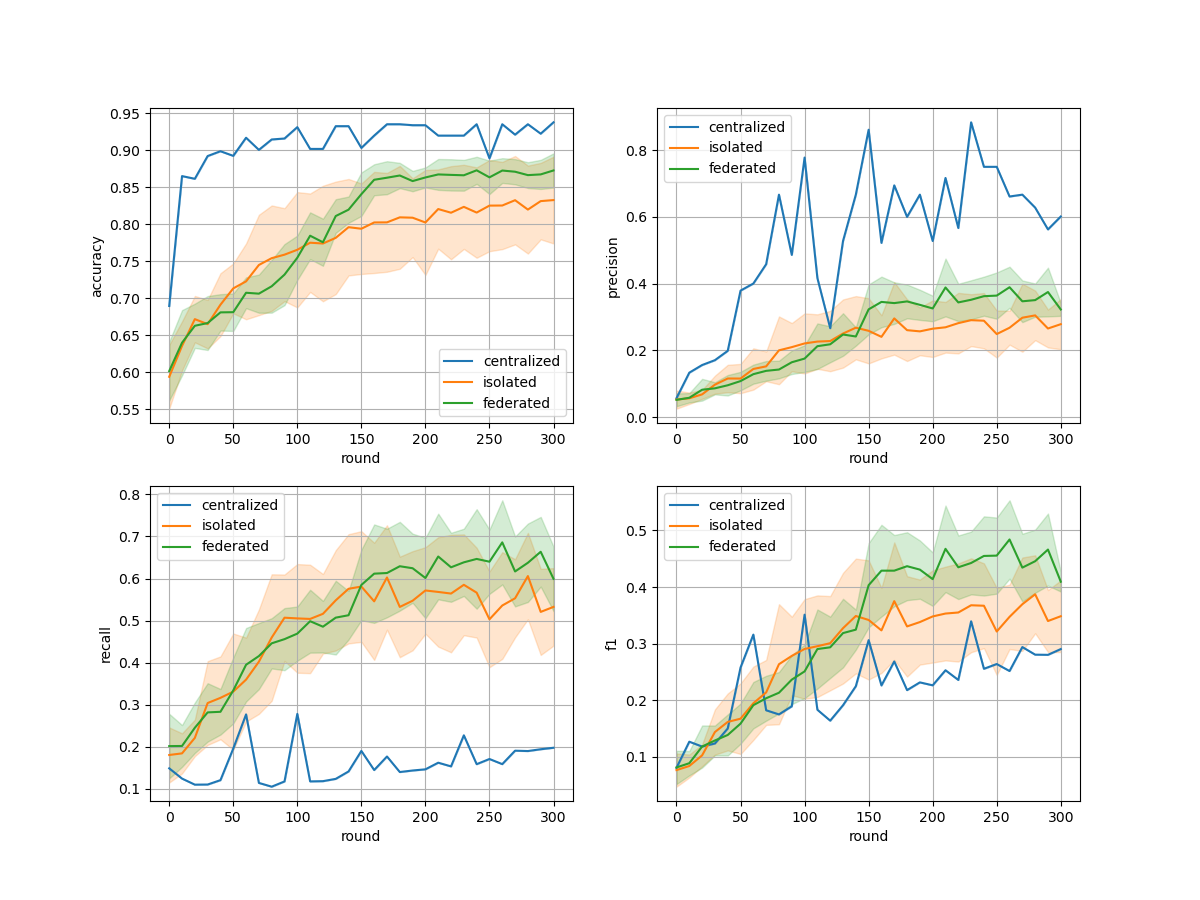
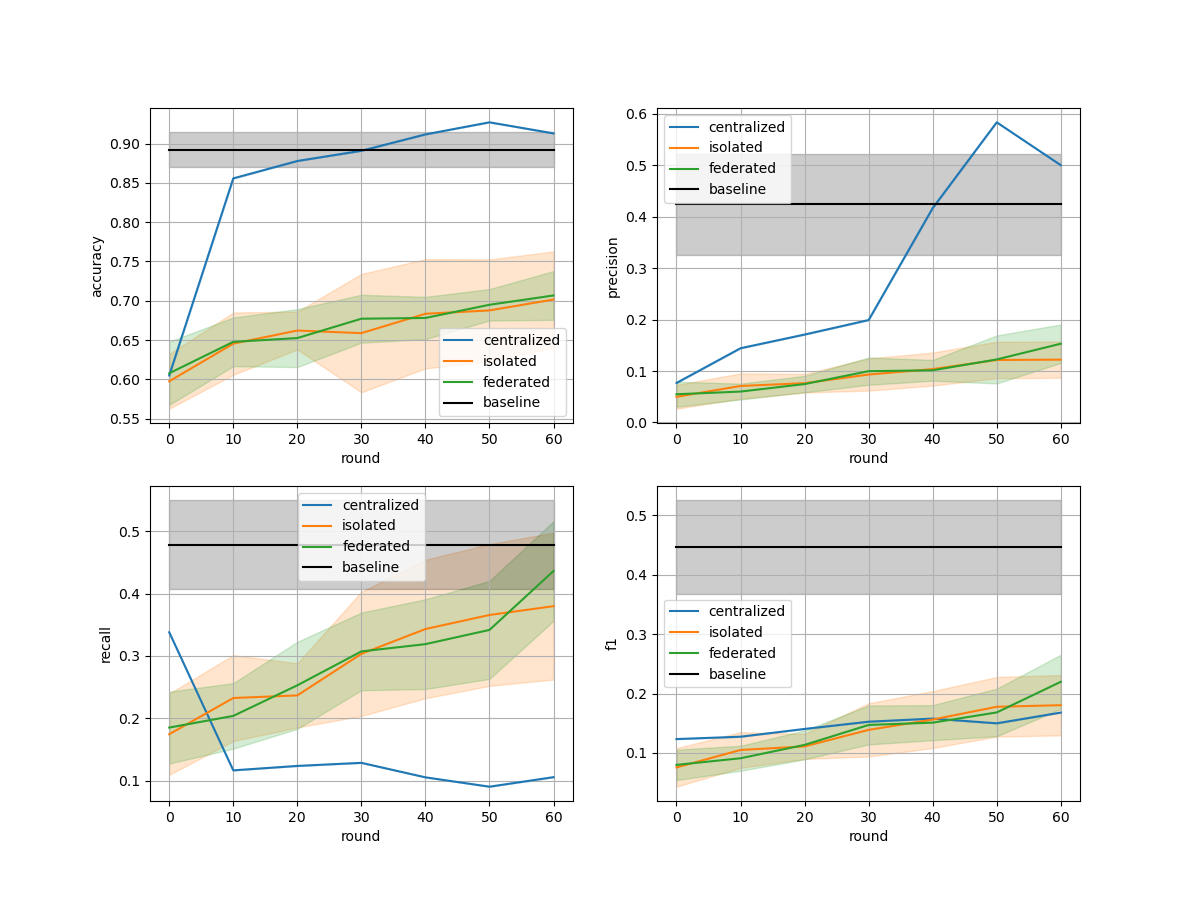
added decision tree as basemark

diff --git a/federated-learning/main.py b/federated-learning/main.py
@@ -5,6 +5,7 @@ from time import sleep
 from modules.logisticregressor.logisticregressor import LogisticRegressor
 import multiprocessing as mp
 from sklearn.model_selection import train_test_split
+from sklearn.metrics import accuracy_score, precision_score, recall_score, f1_score, confusion_matrix
 from sklearn.preprocessing import StandardScaler
 import matplotlib.pyplot as plt
 import torch
@@ -12,7 +13,10 @@ from torch.optim import SGD
 import random 
 import numpy as np
 import os
+from utils.data import latent_dirchlet_allocation
 from utils.criterions import ClassBalancedLoss
+from sklearn.tree import DecisionTreeClassifier
+import seaborn as sns
 
 def set_random_seed(seed:int=1):
         random.seed(seed)
@@ -38,6 +42,19 @@ def get_means_and_stds(log:dict, stages=['training', 'validation', 'test'], metr
                 means[stage][metric] = np.append(means[stage][metric], np.mean(data))
                 stds[stage][metric] = np.append(stds[stage][metric], np.std(data))
     return means, stds
+
+def get_aggregated_confusion_matrices(log:dict, stages=['training', 'validation', 'test']):
+    aggregated_confusion_matrices = {stage: [] for stage in stages}
+    for stage in stages:
+        n_rounds = len(log[next(iter(log))][stage]['confusion_matrix'])
+        for round in range(n_rounds):
+            aggregated_confusion_matrix = np.zeros((2, 2))
+            for client in log.keys():
+                confusion_matrix = log[client][stage]['confusion_matrix'][round]
+                aggregated_confusion_matrix += confusion_matrix
+            aggregated_confusion_matrix /= len(log.keys())
+            aggregated_confusion_matrices[stage].append(aggregated_confusion_matrix.round())
+    return aggregated_confusion_matrices
             
 def main():
     
@@ -81,7 +98,7 @@ def main():
     df = pd.read_csv(f'/home/edvin/Desktop/flib/federated-learning/datasets/{DATASET}/data.csv')
     df1 = df[df['is_sar'] == 0.0]
     df2 = df[df['is_sar'] == 1.0]
-    df = pd.concat([df1, df2.sample(n=295)], axis=0)
+    df = pd.concat([df1, df2.sample(n=295, random_state=seed)], axis=0)
     columns = df.columns
     df = df.drop(columns='account')
     #unique_banks = df['From Bank'].unique()
@@ -95,19 +112,21 @@ def main():
     #df = pd.concat([df1, df2], axis=0)
     #df = pd.get_dummies(df, columns=list(discrete_columns))
     df_train, df_test = train_test_split(df, test_size=0.2, random_state=seed)
-    df_train = df_train.reset_index(drop=True)
-    df_test = df_test.reset_index(drop=True)
+    df_train = df_train.sample(frac=1, random_state=seed).reset_index(drop=True)
+    df_test = df_test.sample(frac=1, random_state=seed).reset_index(drop=True)
     print('trainset imbalance:\n', df_train[target_column].value_counts())
     print('testset imbalance:\n', df_test[target_column].value_counts())
-
+    
     # Hyperparameters centralized
     n_workers = 1 #1
     n_clients = 1 #5
-    n_rounds = 301
+    dfs_train = [df_train]
+    n_rounds = 601
     eval_every = 10
     n_no_aggregation_rounds = n_rounds
     Model = LogisticRegressor
     Criterion = ClassBalancedLoss
+    #loss_beta = 0.99
     Optimizer = SGD
     learning_rate = 0.1
     local_epochs = 1
@@ -122,7 +141,7 @@ def main():
         Model=Model, 
         Criterion=Criterion,
         Optimizer=Optimizer,
-        df_train=df_train, 
+        dfs_train=dfs_train, 
         df_test=df_test,
         continuous_columns=continuous_columns,
         discrete_columns=(),#discrete_columns,
@@ -143,6 +162,8 @@ def main():
     # Hyperparameters isolated
     n_workers = 4
     n_clients = 12
+    dfs_train = np.array_split(df_train, n_clients)
+
 
     set_random_seed(seed)
     
@@ -153,7 +174,7 @@ def main():
         Model=Model, 
         Criterion=Criterion,
         Optimizer=Optimizer,
-        df_train=df_train, 
+        dfs_train=dfs_train, 
         df_test=df_test,
         continuous_columns=continuous_columns,
         discrete_columns=(),#discrete_columns,
@@ -183,7 +204,7 @@ def main():
         Model=Model, 
         Criterion=Criterion,
         Optimizer=Optimizer,
-        df_train=df_train, 
+        dfs_train=dfs_train, 
         df_test=df_test,
         continuous_columns=continuous_columns,
         discrete_columns=(),#discrete_columns,
@@ -201,6 +222,55 @@ def main():
     log3 = server.run()
     print('traning federated done\n')
     
+    print('\ntraning isolated decision trees started\n')
+    log4 = {}
+    for i, df in enumerate(dfs_train):
+        df_train, df_val = train_test_split(df_train, test_size=0.2)
+        df_train = df_train.reset_index(drop=True)
+        df_val = df_val.reset_index(drop=True)
+        if target_column == None:
+            target_column = df_train.columns[-1]
+        y_train = df_train[target_column]
+        X_train = df_train.drop(columns=target_column)
+        y_val = df_val[target_column]
+        X_val = df_val.drop(columns=target_column)
+        y_test = df_test[target_column]
+        X_test = df_test.drop(columns=target_column)
+        scaler = StandardScaler().fit(X_train)
+        X_train = scaler.transform(X_train)
+        X_val = scaler.transform(X_val)
+        X_test = scaler.transform(X_test)
+        y_train = y_train.to_numpy()
+        y_val = y_val.to_numpy()
+        y_test = y_test.to_numpy()
+
+        clf = DecisionTreeClassifier()
+        clf.fit(X_train, y_train)
+        
+        y_pred = clf.predict(X_train)
+        accuracy = accuracy_score(y_true=y_train, y_pred=y_pred)
+        precision = precision_score(y_true=y_train, y_pred=y_pred, zero_division=0)
+        recall = recall_score(y_true=y_train, y_pred=y_pred, zero_division=0)
+        f1 = f1_score(y_true=y_train, y_pred=y_pred, zero_division=0)
+        confusion = confusion_matrix(y_true=y_train, y_pred=y_pred)
+        log4['client_%i' % i] = {'training': {'accuracy': [accuracy], 'precision': [precision], 'recall': [recall], 'f1': [f1], 'confusion_matrix': [confusion]}}
+        
+        y_pred = clf.predict(X_val)
+        accuracy = accuracy_score(y_true=y_val, y_pred=y_pred)
+        precision = precision_score(y_true=y_val, y_pred=y_pred, zero_division=0)
+        recall = recall_score(y_true=y_val, y_pred=y_pred, zero_division=0)
+        f1 = f1_score(y_true=y_val, y_pred=y_pred, zero_division=0)
+        confusion = confusion_matrix(y_true=y_val, y_pred=y_pred)
+        log4['client_%i' % i]['validation'] = {'accuracy': [accuracy], 'precision': [precision], 'recall': [recall], 'f1': [f1], 'confusion_matrix': [confusion]}
+
+        y_pred = clf.predict(X_test)
+        accuracy = accuracy_score(y_true=y_test, y_pred=y_pred)
+        precision = precision_score(y_true=y_test, y_pred=y_pred, zero_division=0)
+        recall = recall_score(y_true=y_test, y_pred=y_pred, zero_division=0)
+        f1 = f1_score(y_true=y_test, y_pred=y_pred, zero_division=0)
+        confusion = confusion_matrix(y_true=y_test, y_pred=y_pred)
+        log4['client_%i' % i]['test'] = {'accuracy': [accuracy], 'precision': [precision], 'recall': [recall], 'f1': [f1], 'confusion_matrix': [confusion]}
+    print('traning isolated decision trees done\n')
 
     rounds = [round for round in range(0, n_rounds, eval_every)]
     logs = [log1, log2, log3]
@@ -208,7 +278,7 @@ def main():
     labels = ['centralized', 'isolated', 'federated']
     fig, axs = plt.subplots(2, 2, figsize=(12, 9))
     for log, color, label in zip(logs, colors, labels):
-        means, stds = get_means_and_stds(log)
+        means, stds = get_means_and_stds(log, metrics=['accuracy', 'precision', 'recall', 'f1'])
         axs[0, 0].plot(rounds, means['test']['accuracy'], color=color, label=label)
         axs[0, 0].fill_between(rounds, means['test']['accuracy'] - stds['test']['accuracy'], means['test']['accuracy'] + stds['test']['accuracy'], color=color, alpha=0.2)
         axs[0, 1].plot(rounds, means['test']['precision'], color=color, label=label)
@@ -217,13 +287,53 @@ def main():
         axs[1, 0].fill_between(rounds, means['test']['recall'] - stds['test']['recall'], means['test']['recall'] + stds['test']['recall'], color=color, alpha=0.2)
         axs[1, 1].plot(rounds, means['test']['f1'], color=color, label=label)
         axs[1, 1].fill_between(rounds, means['test']['f1'] - stds['test']['f1'], means['test']['f1'] + stds['test']['f1'], color=color, alpha=0.2)
+    
+    means, stds = get_means_and_stds(log4, metrics=['accuracy', 'precision', 'recall', 'f1'])
+    x = np.array([rounds[0], rounds[-1]])
+    y = np.array([means['test']['accuracy'][0], means['test']['accuracy'][0]])
+    d = np.array([stds['test']['accuracy'][0], stds['test']['accuracy'][0]])
+    axs[0, 0].plot(x, y, color='black', label='baseline')
+    axs[0, 0].fill_between(x, y - d, y + d, color='black', alpha=0.2)
+    y = np.array([means['test']['precision'][0], means['test']['precision'][0]])
+    d = np.array([stds['test']['precision'][0], stds['test']['precision'][0]])
+    axs[0, 1].plot(x, y, color='black', label='baseline')
+    axs[0, 1].fill_between(x, y - d, y + d, color='black', alpha=0.2)
+    y = np.array([means['test']['recall'][0], means['test']['recall'][0]])
+    d = np.array([stds['test']['recall'][0], stds['test']['recall'][0]])
+    axs[1, 0].plot(x, y, color='black', label='baseline')
+    axs[1, 0].fill_between(x, y - d, y + d, color='black', alpha=0.2)
+    y = np.array([means['test']['f1'][0], means['test']['f1'][0]])
+    d = np.array([stds['test']['f1'][0], stds['test']['f1'][0]])
+    axs[1, 1].plot(x, y, color='black', label='baseline')
+    axs[1, 1].fill_between(x, y - d, y + d, color='black', alpha=0.2)
+
     metrics = ['accuracy', 'precision', 'recall', 'f1']
     for ax, metric in zip(axs.flat, metrics):
-        ax.set_xlabel('round')
-        ax.set_ylabel(metric)
+        ax.set_xlabel('round', fontsize=16)
+        ax.set_ylabel(metric, fontsize=16)
         ax.legend()
         ax.grid()
-    plt.savefig('results.png')
+    
+    plt.savefig('metrics.png')
+
+    fig, axs = plt.subplots(1, 4, figsize=(16, 5))
+    confusion_matrices = get_aggregated_confusion_matrices(log1)
+    sns.heatmap(confusion_matrices['test'][-1], annot=True, annot_kws={"size": 16}, ax=axs[0], fmt='g', cmap='Blues', cbar=False)
+    axs[0].set_title('centralized', fontsize=18)
+    confusion_matrices = get_aggregated_confusion_matrices(log2)
+    sns.heatmap(confusion_matrices['test'][-1], annot=True, annot_kws={"size": 16}, ax=axs[1], fmt='g', cmap='Oranges', cbar=False)
+    axs[1].set_title('isolated', fontsize=18)
+    confusion_matrices = get_aggregated_confusion_matrices(log3)
+    sns.heatmap(confusion_matrices['test'][-1], annot=True, annot_kws={"size": 16}, ax=axs[2], fmt='g', cmap='Greens', cbar=False)
+    axs[2].set_title('federated', fontsize=18)
+    confusion_matrices = get_aggregated_confusion_matrices(log4)
+    sns.heatmap(confusion_matrices['test'][-1], annot=True, annot_kws={"size": 16}, ax=axs[3], fmt='g', cmap='Greys', cbar=False)
+    axs[3].set_title('baseline', fontsize=18)
+    for ax in axs:
+        ax.set_xlabel('prediction', fontsize=16)
+        ax.set_ylabel('label', fontsize=16)
+    fig.tight_layout(pad=2.0)
+    plt.savefig('confusion_matrices.png')
 
     return
 

diff --git a/federated-learning/client.py b/federated-learning/client.py
@@ -2,7 +2,7 @@ import torch
 from torch.utils.data import DataLoader
 import pandas as pd
 from sklearn.model_selection import train_test_split
-from sklearn.metrics import accuracy_score, precision_score, recall_score, f1_score
+from sklearn.metrics import accuracy_score, precision_score, recall_score, f1_score, confusion_matrix
 from sklearn.preprocessing import StandardScaler
 import numpy as np 
 import copy
@@ -76,21 +76,24 @@ class Client():
                 'accuracy': [],
                 'precision': [],
                 'recall': [],
-                'f1': []
+                'f1': [],
+                'confusion_matrix': []
             },
             'validation': {
                 'loss': [],
                 'accuracy': [],
                 'precision': [],
                 'recall': [],
-                'f1': []
+                'f1': [],
+                'confusion_matrix': []
             },
             'test': {
                 'loss': [],
                 'accuracy': [],
                 'precision': [],
                 'recall': [],
-                'f1': []
+                'f1': [],
+                'confusion_matrix': []
             }
         }
 
@@ -104,6 +107,7 @@ class Client():
         precisions = []
         recalls = []
         f1s = []
+        confusions = []
         for _ in range(self.epochs):
             for X_train, y_true in self.train_loader:
                 X_train = X_train.to(device)
@@ -120,17 +124,20 @@ class Client():
                 precisions.append(precision_score(y_true=y_true, y_pred=y_pred, zero_division=0))
                 recalls.append(recall_score(y_true=y_true, y_pred=y_pred, zero_division=0))
                 f1s.append(f1_score(y_true=y_true, y_pred=y_pred, zero_division=0))
+                confusions.append(confusion_matrix(y_true=y_true, y_pred=y_pred))
         self.state_dict = copy.deepcopy(model.state_dict())
         loss = sum(losses)/len(losses) 
         accuracy = sum(accuracies)/len(accuracies)
         precision = sum(precisions)/len(precisions)
         recall = sum(recalls)/len(recalls)
         f1 = sum(f1s)/len(f1s)
+        confusion = sum(confusions)
         self.log['training']['loss'].append(loss)
         self.log['training']['accuracy'].append(accuracy)
         self.log['training']['precision'].append(precision)
         self.log['training']['recall'].append(recall)
         self.log['training']['f1'].append(f1)
+        self.log['training']['confusion_matrix'].append(confusion)
         return loss, accuracy
     
     def validate(self, model, device):
@@ -141,6 +148,7 @@ class Client():
         precisions = []
         recalls = []
         f1s = []
+        confusions = []
         for X_val, y_true in self.val_loader:
             X_val = X_val.to(device)
             y_true = y_true.to(device)
@@ -153,16 +161,19 @@ class Client():
             precisions.append(precision_score(y_true=y_true, y_pred=y_pred, zero_division=0))
             recalls.append(recall_score(y_true=y_true, y_pred=y_pred, zero_division=0))
             f1s.append(f1_score(y_true=y_true, y_pred=y_pred, zero_division=0))
+            confusions.append(confusion_matrix(y_true=y_true, y_pred=y_pred))
         loss = sum(losses)/len(losses) 
         accuracy = sum(accuracies)/len(accuracies)
         precision = sum(precisions)/len(precisions)
         recall = sum(recalls)/len(recalls)
         f1 = sum(f1s)/len(f1s)
+        confusion = sum(confusions)
         self.log['validation']['loss'].append(loss)
         self.log['validation']['accuracy'].append(accuracy)
         self.log['validation']['precision'].append(precision)
         self.log['validation']['recall'].append(recall)
         self.log['validation']['f1'].append(f1)
+        self.log['validation']['confusion_matrix'].append(confusion)
         return loss, accuracy
 
     def test(self, model, device):
@@ -173,6 +184,7 @@ class Client():
         precisions = []
         recalls = []
         f1s = []
+        confusions = []
         for X_test, y_true in self.test_loader:
             X_test = X_test.to(device)
             y_true = y_true.to(device)
@@ -185,16 +197,19 @@ class Client():
             precisions.append(precision_score(y_true=y_true, y_pred=y_pred, zero_division=0))
             recalls.append(recall_score(y_true=y_true, y_pred=y_pred, zero_division=0))
             f1s.append(f1_score(y_true=y_true, y_pred=y_pred, zero_division=0))
+            confusions.append(confusion_matrix(y_true=y_true, y_pred=y_pred))
         loss = sum(losses)/len(losses) 
         accuracy = sum(accuracies)/len(accuracies)
         precision = sum(precisions)/len(precisions)
         recall = sum(recalls)/len(recalls)
         f1 = sum(f1s)/len(f1s)
+        confusion = sum(confusions)
         self.log['test']['loss'].append(loss)
         self.log['test']['accuracy'].append(accuracy)
         self.log['test']['precision'].append(precision)
         self.log['test']['recall'].append(recall)
         self.log['test']['f1'].append(f1)
+        self.log['test']['confusion_matrix'].append(confusion)
         return loss, accuracy
         
 

diff --git a/federated-learning/server.py b/federated-learning/server.py
@@ -3,7 +3,6 @@ import numpy as np
 import pandas as pd
 from time import sleep
 from client import Client
-from utils.data import latent_dirchlet_allocation
 import torch
 from torch.nn import BCELoss
 from torch.optim import SGD
@@ -11,7 +10,7 @@ from collections import OrderedDict
 import copy
 
 class Server():
-    def __init__(self, n_clients:int, n_rounds:int, n_workers:int, Model, Criterion, Optimizer, df_train, df_test, continuous_columns, discrete_columns, target_column, n_no_aggregation_rounds, learning_rate, local_epochs, batch_size, verbose, eval_every, devices):
+    def __init__(self, n_clients:int, n_rounds:int, n_workers:int, Model, Criterion, Optimizer, dfs_train, df_test, continuous_columns, discrete_columns, target_column, n_no_aggregation_rounds, learning_rate, local_epochs, batch_size, verbose, eval_every, devices):
         self.n_workers = n_workers
         self.devices = devices
         
@@ -21,12 +20,11 @@ class Server():
         self.eval_every = eval_every
         self.n_no_aggregation_rounds = n_no_aggregation_rounds
         
-        self.df_train = df_train
+        self.dfs_train = dfs_train
         self.df_test = df_test
         self.continuous_columns = continuous_columns,
         self.discrete_columns = discrete_columns
         self.target_column = target_column
-        self.dfs_train = latent_dirchlet_allocation(df=self.df_train, target=self.target_column, partition='homo', n=self.n_clients, alpha=100.0)
         
         self.Model = Model
         self.Criterion = Criterion
@@ -55,7 +53,11 @@ class Server():
             # train clients
             clients = queue.get()
             for client in clients:
-                if round % self.eval_every == 0:
+                if round == 0:
+                    test_loss, test_accuracy = client.test(model=model, device=device)
+                    if self.verbose:
+                        print('%s: test_loss = %.4f, test_accuracy = %.4f' % (client.name, test_loss, test_accuracy))
+                elif round % self.eval_every == 0:
                     train_loss, train_accuracy = client.train(model=model, device=device)
                     val_loss, val_accuracy = client.validate(model=model, device=device)
                     test_loss, test_accuracy = client.test(model=model, device=device)
